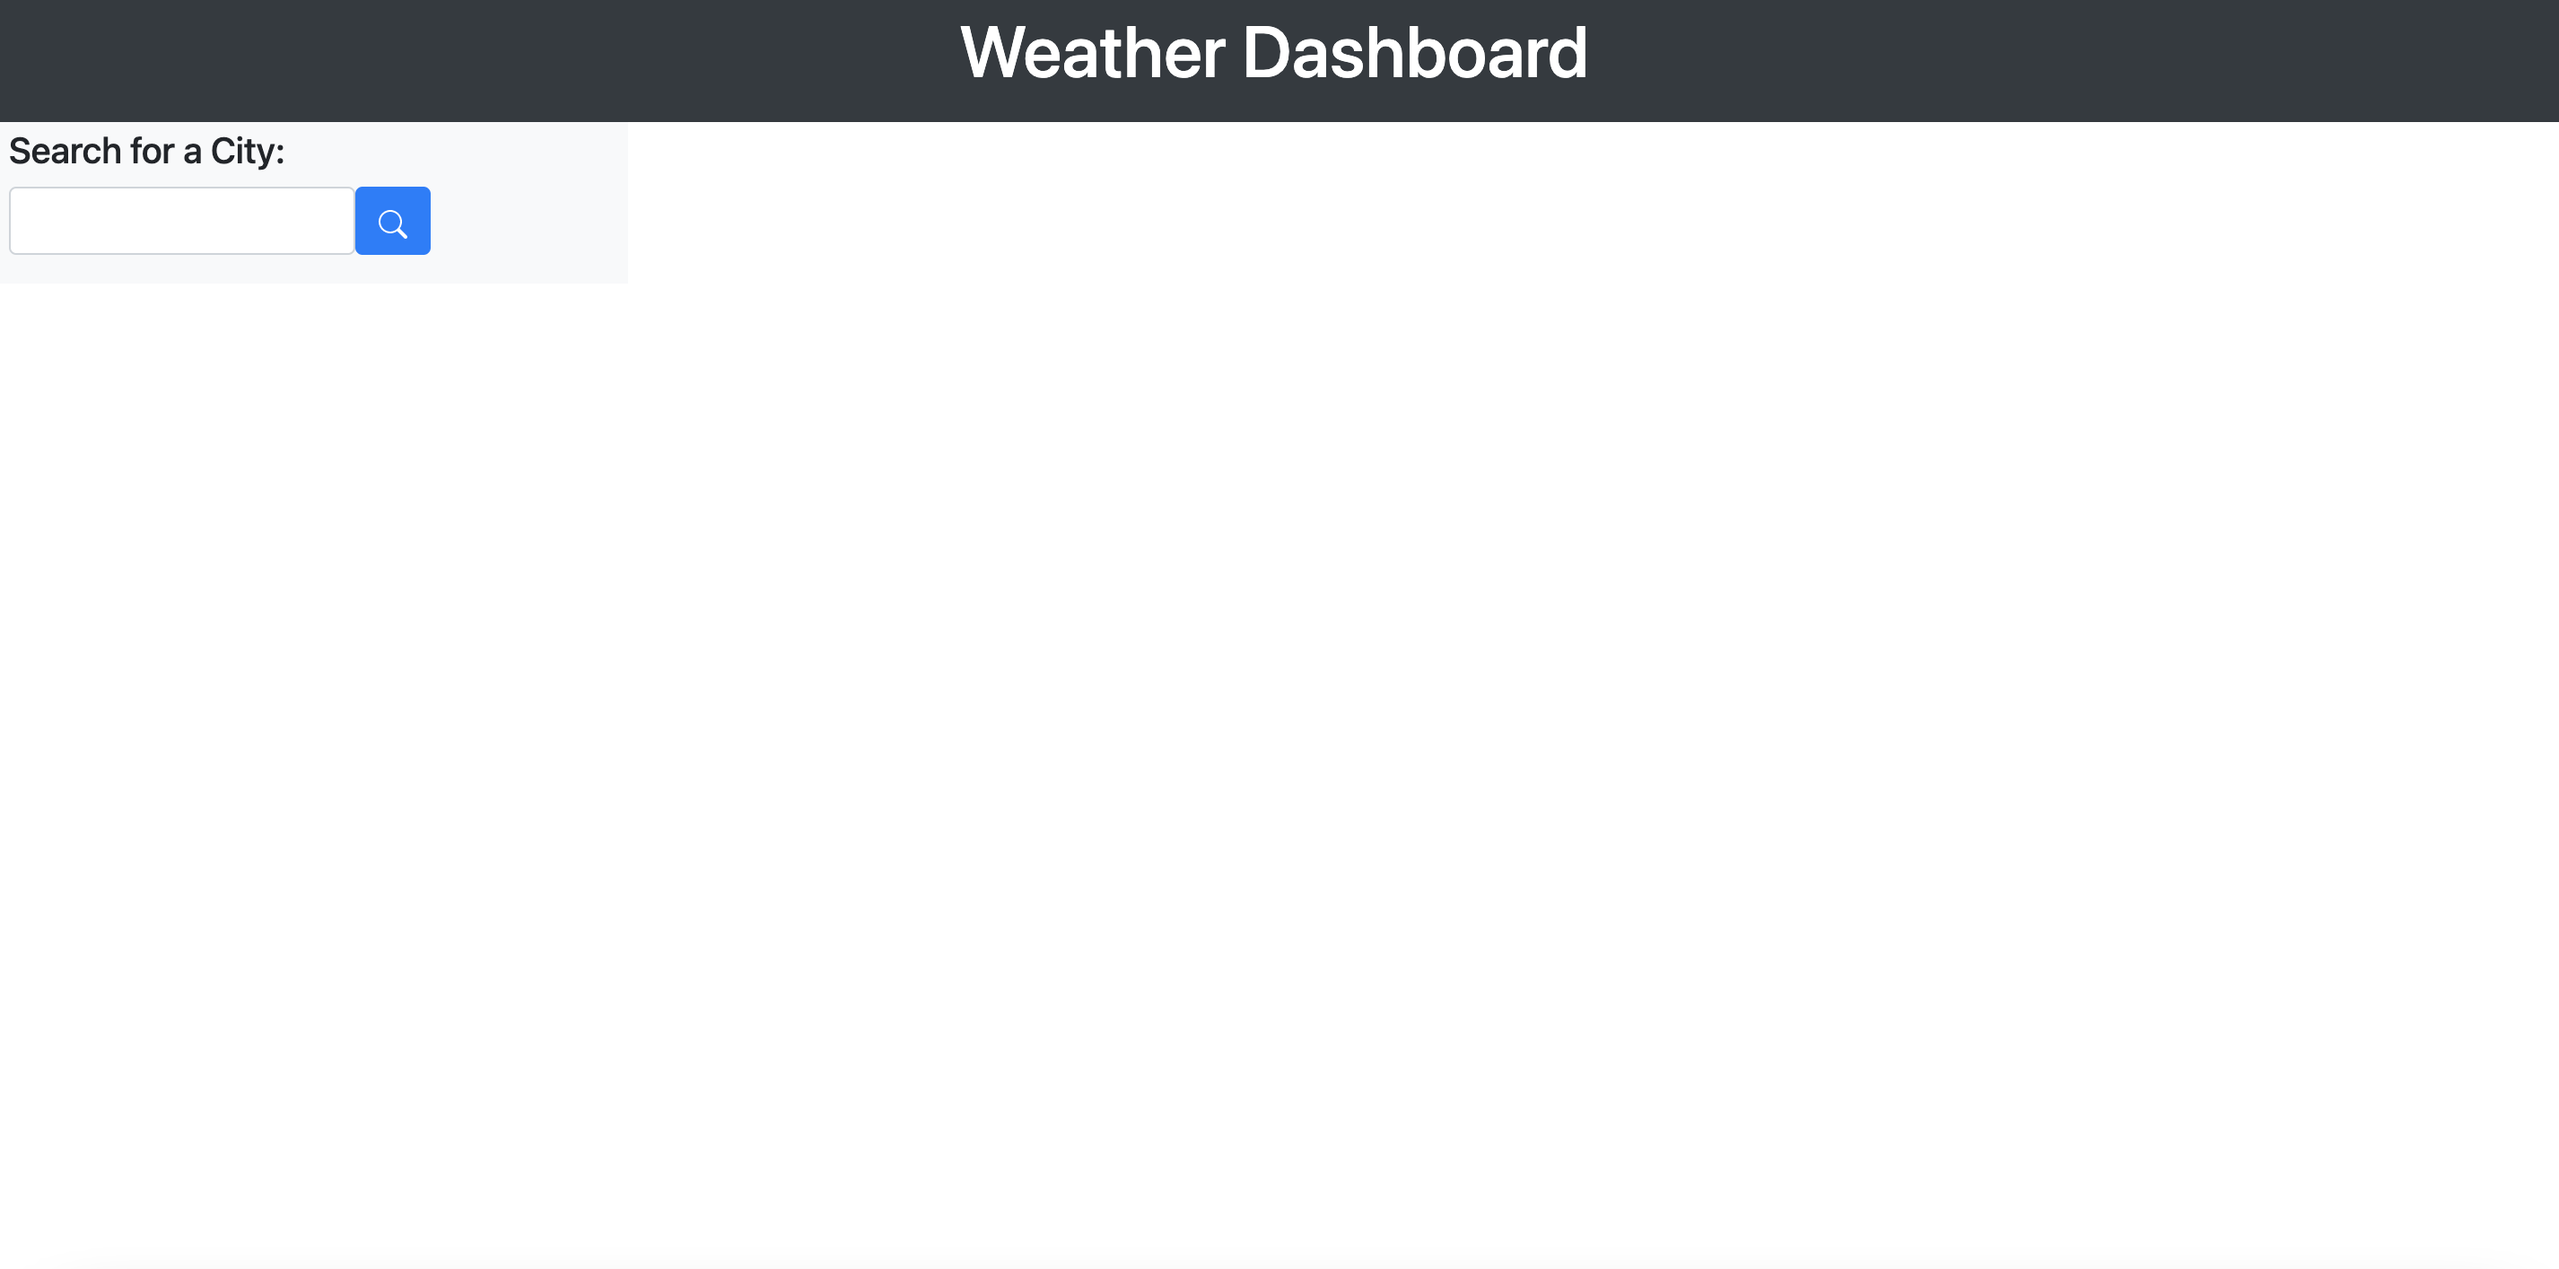
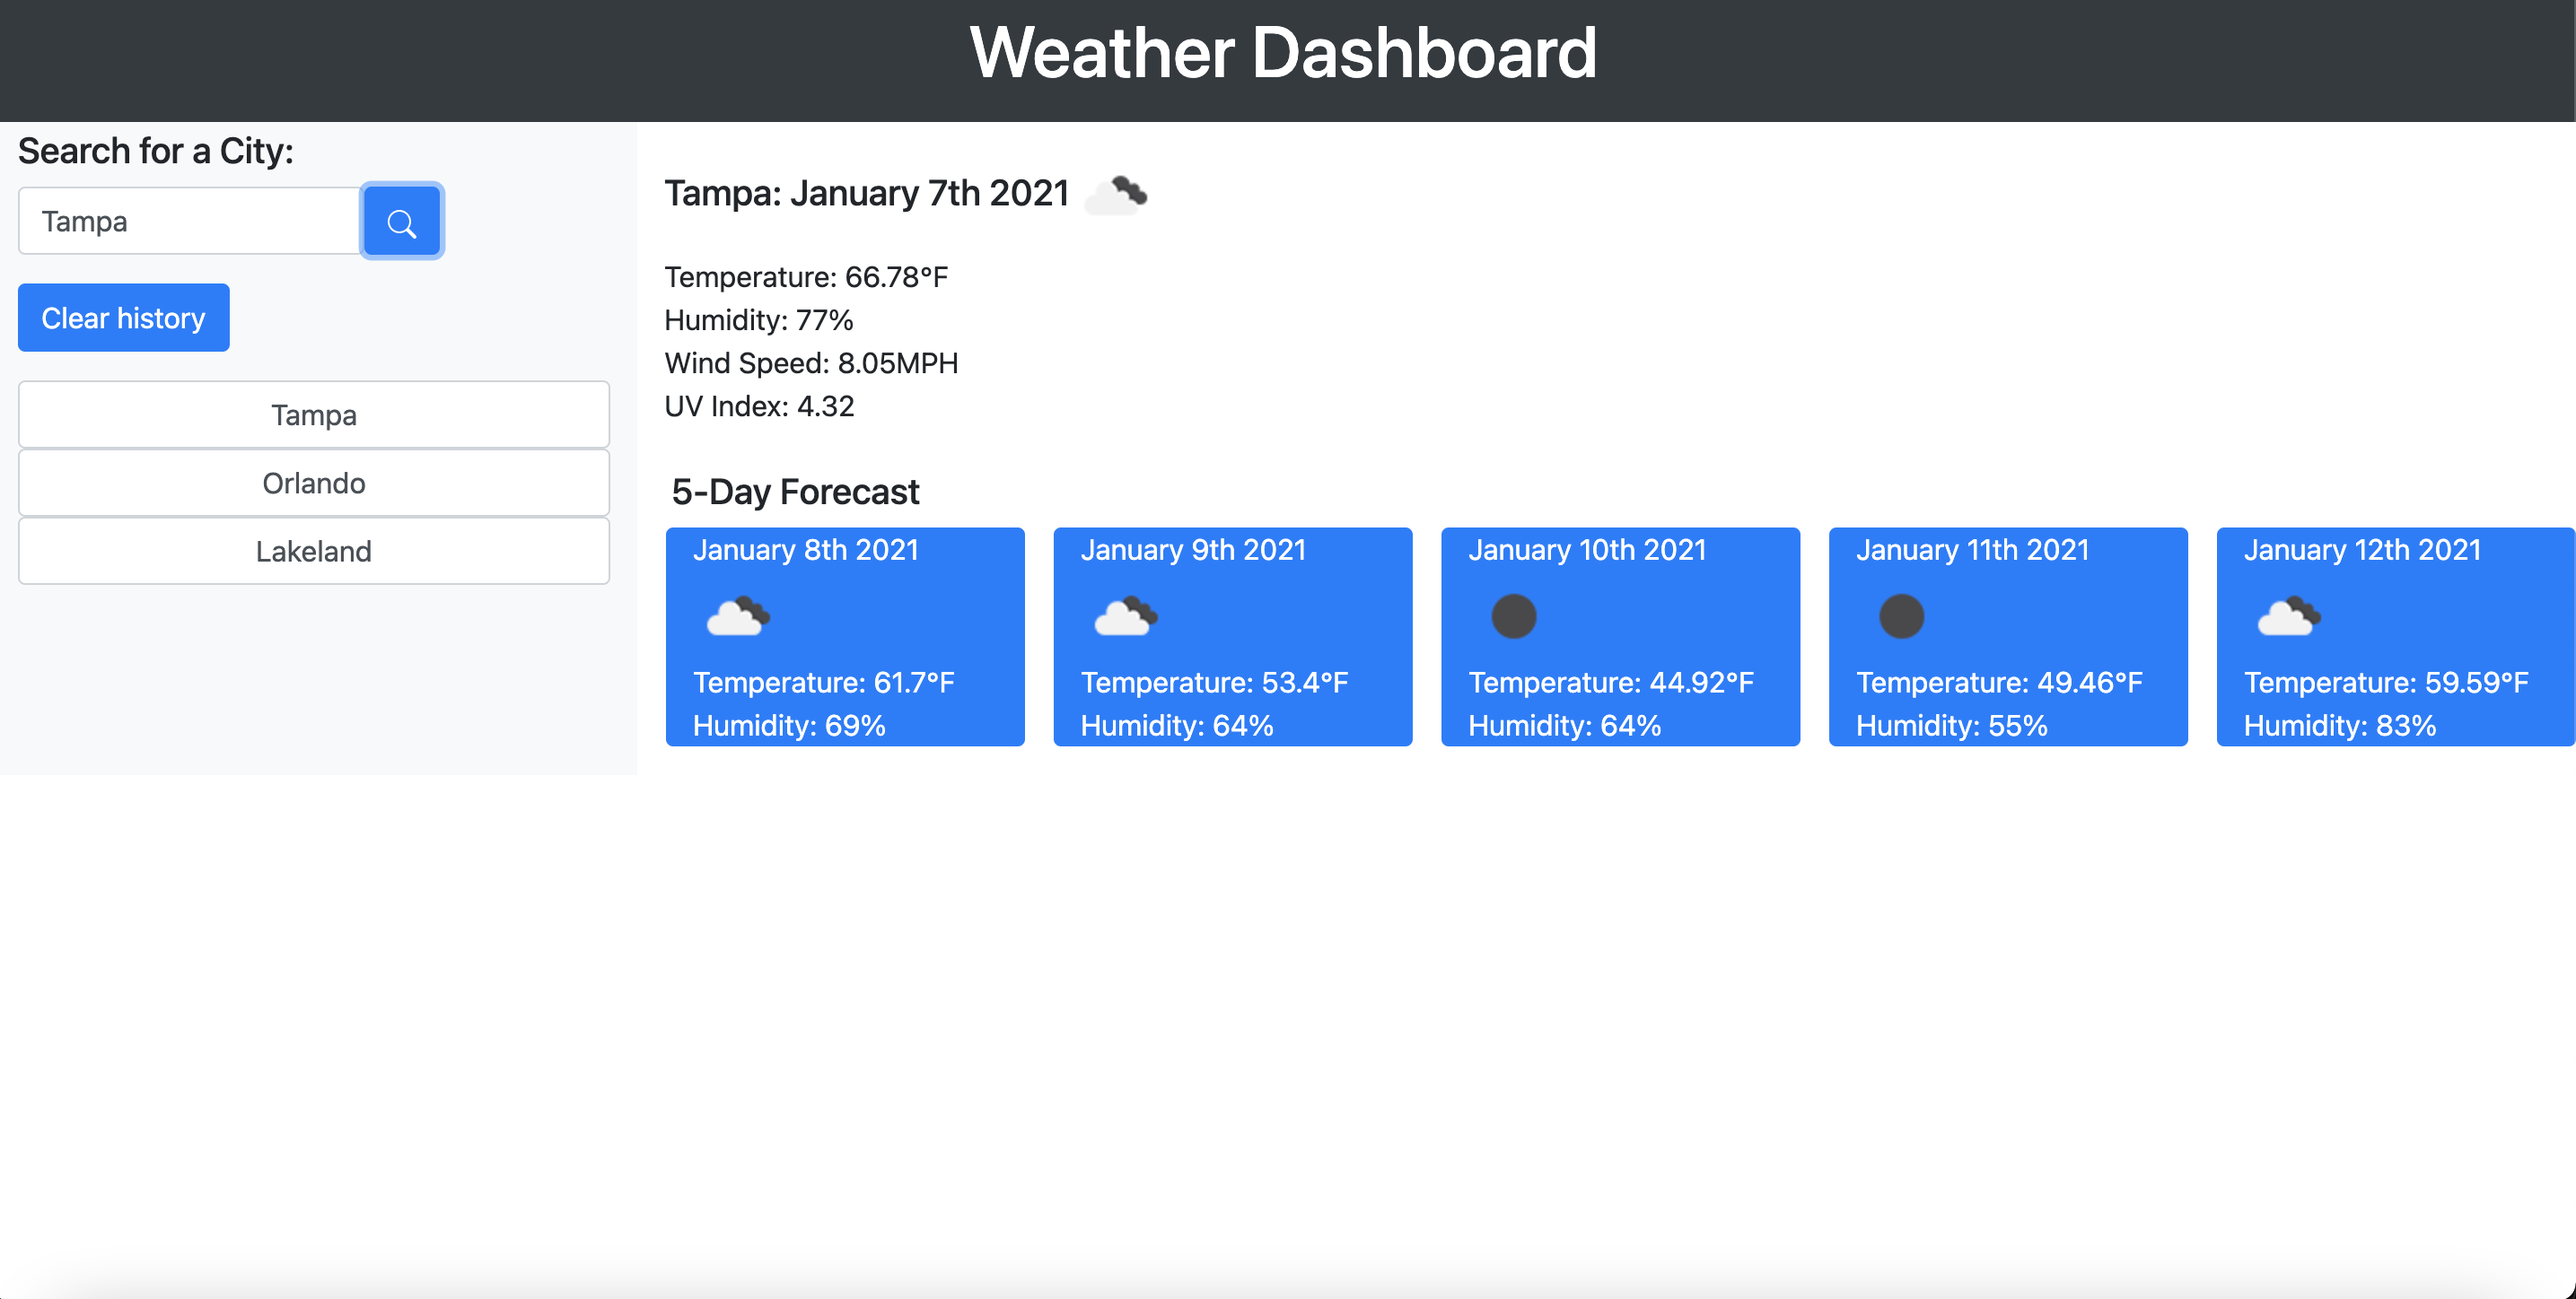
more fixes

diff --git a/script.js b/script.js
@@ -8,37 +8,46 @@ var searchValue;
 var longitude;
 var latitude;
 var city;
+var historyEl = document.getElementById("history");
+let searchHistory = JSON.parse(localStorage.getItem("search")) || [];
 
 
      
-function init(){
-    //Creates an empty local storage
-    console.log(localStorage.getItem("city"));
-    if (localStorage.getItem("city") == null) {
-        
-        localStorage.setItem("city", JSON.stringify(city));
-    }
-    //Places variable into local storage
-    city = JSON.parse(localStorage.getItem("city"));
-        console.log(city);
-    // for (i=0; i < city.length; i++){
-    //     var city_button = $("<button>").text(city[i]).addClass("btn btn-primary");
-    //     $(".history").append(city_button);
 
-    // }
-}
-init();
 $("#search-button").on("click", function(){
-    console.log(city);
     searchValue  = $("#search-value").val()
-    
-    
-    city.push(searchValue);
-
-    localStorage.setItem("city", city);
-    $("#search-value").val("")
     searchWeather(searchValue);
+    searchHistory.push(searchValue);
+    localStorage.setItem("search",JSON.stringify(searchHistory));
+    renderSearchHistory();
+      
 })
+
+$("#clear-history").on("click",function() {
+    searchHistory = [];
+    renderSearchHistory();
+    localStorage.clear();
+})
+
+function renderSearchHistory() {
+    $("#history").text("");
+    for (let i=0; i<searchHistory.length; i++) {
+        const historyItem = $("<button>");
+        historyItem.text(searchHistory[i]);
+        historyItem.attr("readonly",true);
+        historyItem.attr("class", "form-control d-block bg-white");
+        // historyItem.attr("value", searchHistory[i]);
+        historyItem.on("click",function() {
+            getWeather(historyItem.val());
+        })
+        $("#history").prepend(historyItem);
+    }
+}
+
+renderSearchHistory();
+if (searchHistory.length > 0) {
+    createRow(searchHistory[searchHistory.length - 1]);
+}
 
 function createRow(response) {
     tRow.empty();
@@ -83,11 +92,18 @@ function createRow(response) {
         type: "GET",
         url: "http://api.openweathermap.org/data/2.5/forecast?q=" + searchValue + "&units=imperial" + "&appid=" + APIkey
     }).then(function(fiveDay) {
+        // Ensures only one city forecast is seen
+        $("#fiveFor").empty();
+        var fiveFor = $("<div>").text("5-Day Forecast");
+        $("#fiveFor").append(fiveFor);
         
+
+        // $("#forecast").prepend(forecastAlert);
         $("#day1").empty();
+        // Creating date in forecast
         var forDate = $("<div>").text(moment().add(1, 'days').format('MMMM Do YYYY'));
-        
         $("#day1").append(forDate)
+
         var forIcon = $("<img>");
         forIcon.attr("src", "http://openweathermap.org/img/wn/" + fiveDay.list[4].weather[0].icon+ ".png")
         $("#day1").append(forIcon);

diff --git a/index.html b/index.html
@@ -5,7 +5,7 @@
     <!-- Required meta tags -->
     <meta charset="utf-8">
     <meta name="viewport" content="width=device-width, initial-scale=1, shrink-to-fit=no">
-
+    
     <!-- Bootstrap CSS -->
     <link rel="stylesheet" href="https://stackpath.bootstrapcdn.com/bootstrap/4.3.1/css/bootstrap.min.css" integrity="sha384-ggOyR0iXCbMQv3Xipma34MD+dH/1fQ784/j6cY/iJTQUOhcWr7x9JvoRxT2MZw1T" crossorigin="anonymous">
   </head>
@@ -24,13 +24,16 @@
                 <path d="M11.742 10.344a6.5 6.5 0 1 0-1.397 1.398h-.001c.03.04.062.078.098.115l3.85 3.85a1 1 0 0 0 1.415-1.414l-3.85-3.85a1.007 1.007 0 0 0-.115-.1zM12 6.5a5.5 5.5 0 1 1-11 0 5.5 5.5 0 0 1 11 0z"/>
               </svg></button>
             </div>
-            <ul class="list-group history"></ul>
+            <button class="btn btn-primary mb-3" type="button" id="clear-history">Clear history</button>
+            <form id="history"></form>
             
           </aside>
           <div class="col-lg-9">
             <div class="row">
               <div id="today" class="col mt-3"></div>
             </div>
+            <br>
+            <h5 id="fiveFor" class="row ml-1"></h5>
             <div class="row" id="forecast">
               <div id="day1" class="col-md forecast bg-primary text-white ml-3 mb-3 rounded"></div>
               <div id="day2" class="col-md forecast bg-primary text-white ml-3 mb-3 rounded"></div>

diff --git a/README.md b/README.md
@@ -1,5 +1,8 @@
 # WeatherReport
 The purpose of this site is to display the weather for the city inputted by the user and will also provide the user with the expected forecast for the next five days in that same city. The inputted city will then appear under the search bar, along with any other entry, providing the user with the ability to select  previous entries that they have made and few they forecast for that city again.
 Below is a screenshot of the page once you open it up:
+[!Weather_Dashboard](Weather_Dashboard1.jpeg)
+
+And a screenshot of what it looks like after entering a few cities:
 [!Weather_Dashboard](Weather_Dashboard.jpeg)
 
